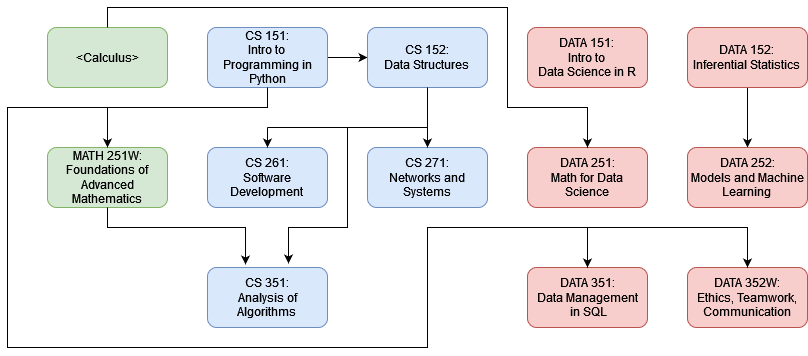
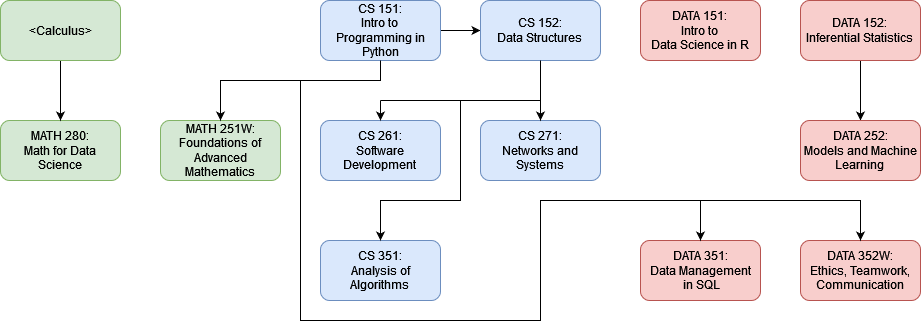
math 280 update

diff --git a/advising/cs-ds.html b/advising/cs-ds.html
@@ -39,7 +39,7 @@ Five (5) courses in Computer Science, six (6) courses in Data Science, one (1) c
   <li>DATA 151 : Intro to Data Science in R
   <li>DATA 152 : Inferential Statistics
   <li>MATH 251W: Foundations of Advanced Mathematics
-  <li>DATA 251 : Math for Data Science*
+  <li>MATH 280 : Math for Data Science*
   <li>DATA 252 : Models and Machine Learning
   <li>CS   261 : Software Development
   <li>CS   271 : Networks and Systems
@@ -47,10 +47,10 @@ Five (5) courses in Computer Science, six (6) courses in Data Science, one (1) c
   <li>DATA 351 : Data Management with SQL
   <li>DATA 352W: Ethics, Teamwork, Communications
 </ol>
-*Requires MATH 152: Accelerated Calculus II or High School equivalent.
+*Requires Calulus credit.
 </code></pre>
 <h4>Dependency Graph</h4>
-<img src="photos/csds.png" alt="CS 152, MATH 251W, DATA 351, DATA 352W require CS 151. CS 261 and CS 271 require CS 152. CS 351 requires CS 152 and MATH 251W. DATA 252 requires DATA 152.">
+<img src="photos/csds.png" alt="CS 152, MATH 251W, DATA 351, DATA 352W require CS 151. CS 261 and CS 271 require CS 152. CS 351 requires CS 152 and MATH 251W. DATA 252 requires DATA 152. MATH 280 requires Calculus.">
 
 <p>Some notes:
 <ol>

diff --git a/advising/ds-bs.html b/advising/ds-bs.html
@@ -37,15 +37,15 @@
 Six (6) courses in Data Science, one (1) course in Computer Science, and three electives in these majors or approved by advisor including either coursework in Mathematics or other calculus credit.<pre><code><ol><li>CS   151 : Intro to Programming in Python
   <li>DATA 151 : Intro to Data Science in R
   <li>DATA 152 : Inferential Statistics
-  <li>DATA 251 : Math for Data Science*
+  <li>MATH 280 : Math for Data Science*
   <li>DATA 252 : Models and Machine Learning
   <li>DATA 351 : Data Management with SQL
   <li>DATA 352W: Ethics, Teamwork, Communications
 </ol>
-*Requires MATH 152: Accelerated Calculus II or High School equivalent.
+*Requires Calulus credit.
 </code></pre>
 <h4>Dependency Graph</h4>
-<img src="photos/ds.png" alt="DATA 251 requires Calculus. DATA 252 requires DATA 152. DATA 351 requires CS 151. DATA 352W requires CS 151 or DATA 151.">
+<img src="photos/ds.png" alt="MATH 280 requires Calculus. DATA 252 requires DATA 152. DATA 351 requires CS 151. DATA 352W requires CS 151 or DATA 151.">
 
 <h4>MINOR</h4>
 <p/>

diff --git a/advising/ds-f22.html b/advising/ds-f22.html
@@ -42,13 +42,11 @@ DATA 151 >= CS 151 >= MATH 15x > DATA 351 > MATH 280 > CS 152 >= DATA 399
 <h4>Major Requirements</h4><pre><code><ol><li>CS   151 : MWF @ 0800, 0910, or 1020
   <li>DATA 151 : TTh @ 0940, or 230
   <li>DATA 152 : Not offered
-  <li>DATA 251 : Not offered
+  <li>MATH 280 : MWF @ 0910
   <li>DATA 252 : Not offered
   <li>DATA 351 : MW_ @ 1250
   <li>DATA 352W: Not offered
 </ol></code></pre>
-
-There is a MATH 280: Math for Data Science offered MWF @ 0910 that should provide DATA 251 credit.
 
 <h4>DATA/CS Electives</h4><pre><code><ol><li>CS   152 : TTh @ 0800 (Programming with Structures)
   <li>DATA 399 : TTh @ 1430 (Privacy and Security)
